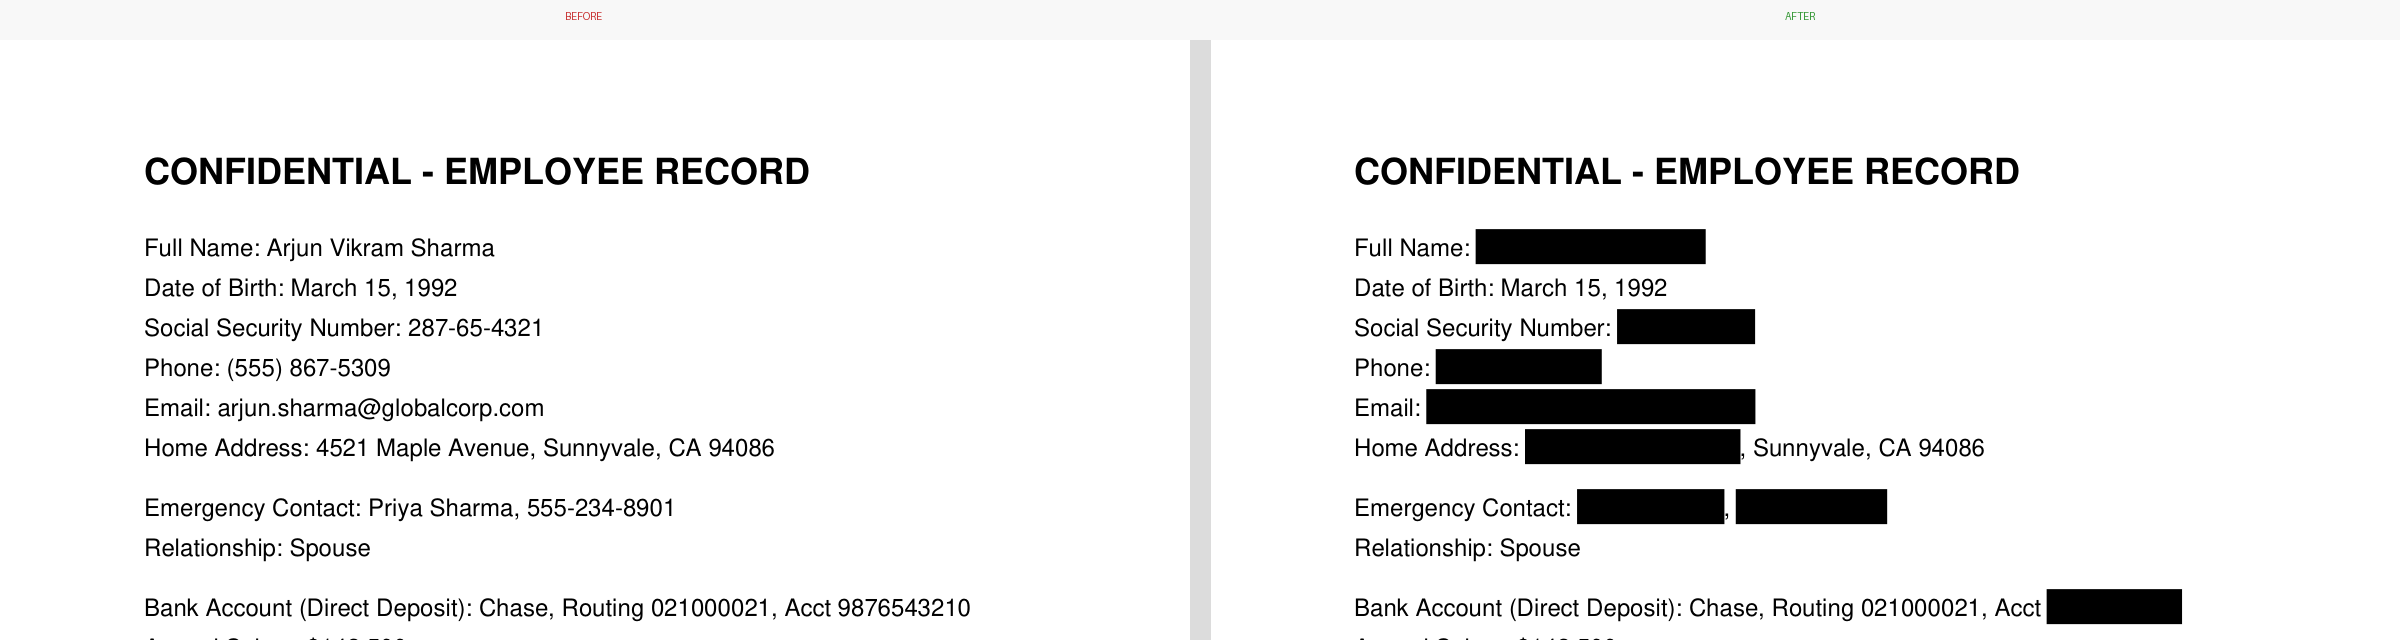
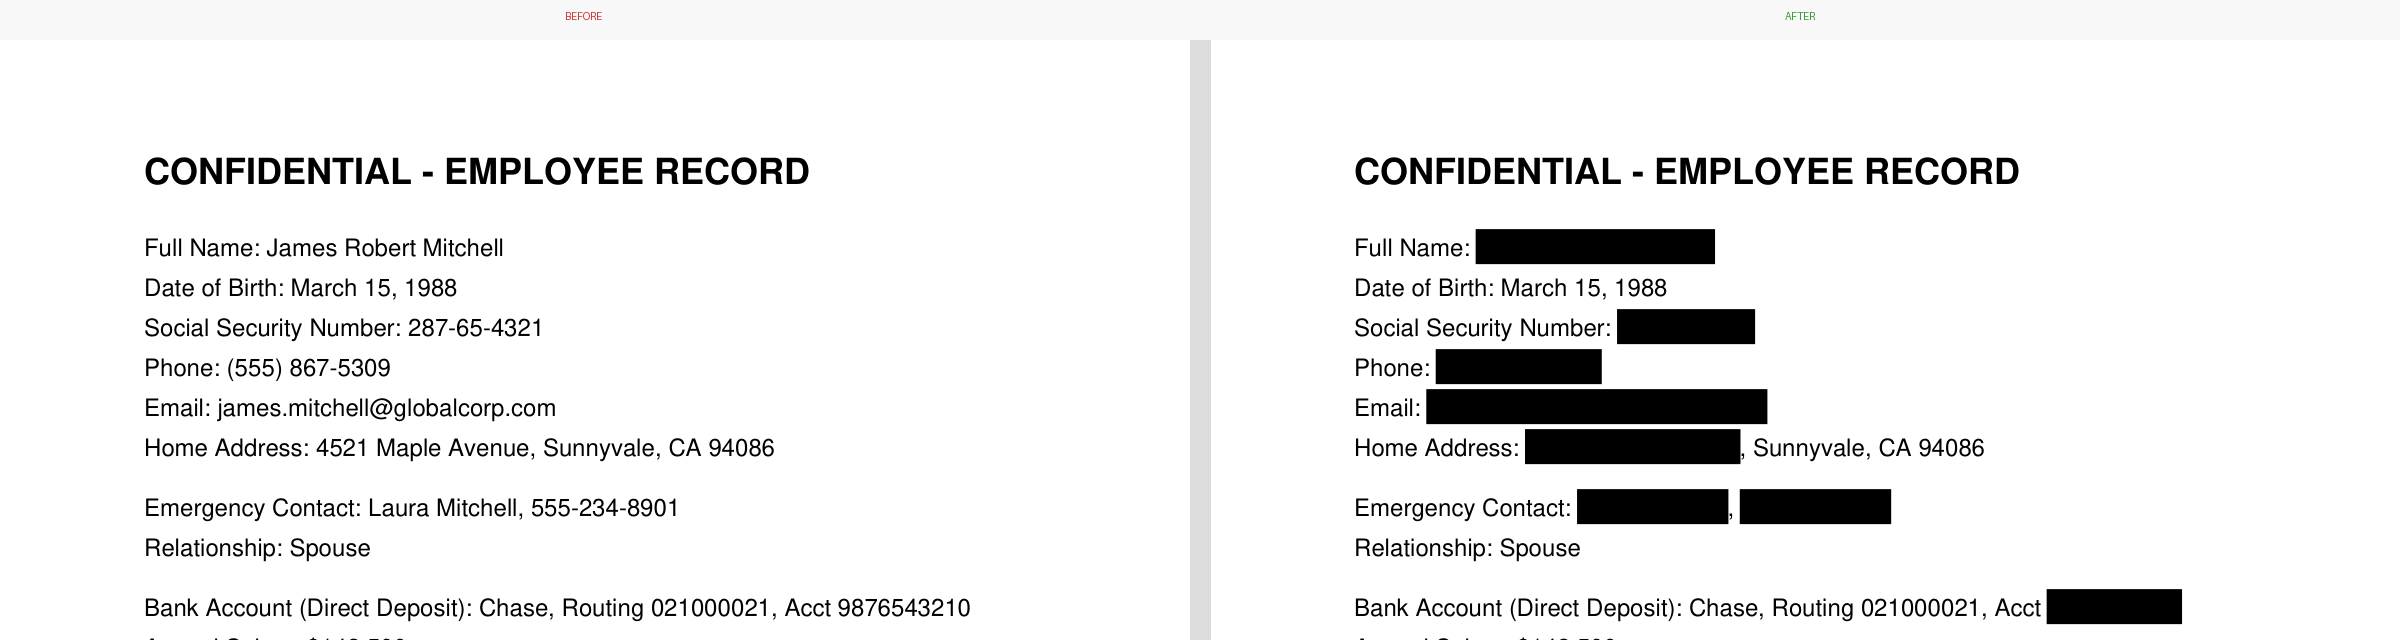
Regenerate example files and before/after image

diff --git a/examples/generate_examples.py b/examples/generate_examples.py
@@ -23,24 +23,24 @@ def make_employee_record_pdf():
 
     w("CONFIDENTIAL - EMPLOYEE RECORD", 18, bold=True)
     y += 10
-    w("Full Name: Arjun Vikram Sharma")
-    w("Date of Birth: March 15, 1992")
+    w("Full Name: James Robert Mitchell")
+    w("Date of Birth: March 15, 1988")
     w("Social Security Number: 287-65-4321")
     w("Phone: (555) 867-5309")
-    w("Email: arjun.sharma@globalcorp.com")
+    w("Email: james.mitchell@globalcorp.com")
     w("Home Address: 4521 Maple Avenue, Sunnyvale, CA 94086")
     y += 10
-    w("Emergency Contact: Priya Sharma, 555-234-8901")
+    w("Emergency Contact: Laura Mitchell, 555-234-8901")
     w("Relationship: Spouse")
     y += 10
     w("Bank Account (Direct Deposit): Chase, Routing 021000021, Acct 9876543210")
     w("Annual Salary: $142,500")
     y += 10
-    w("Notes: Arjun joined the ML Platform team on 2023-01-15.")
+    w("Notes: James joined the ML Platform team on 2023-01-15.")
     w("Manager: Sarah Chen (sarah.chen@globalcorp.com)")
     w("Previous employer: Meridian Technologies Inc.")
 
-    doc.set_metadata({"author": "HR System v3.2", "title": "Employee Record - Sharma"})
+    doc.set_metadata({"author": "HR System v3.2", "title": "Employee Record - Mitchell"})
     doc.save(str(OUT / "sample_employee_record.pdf"))
     doc.close()
     print("Created sample_employee_record.pdf")
